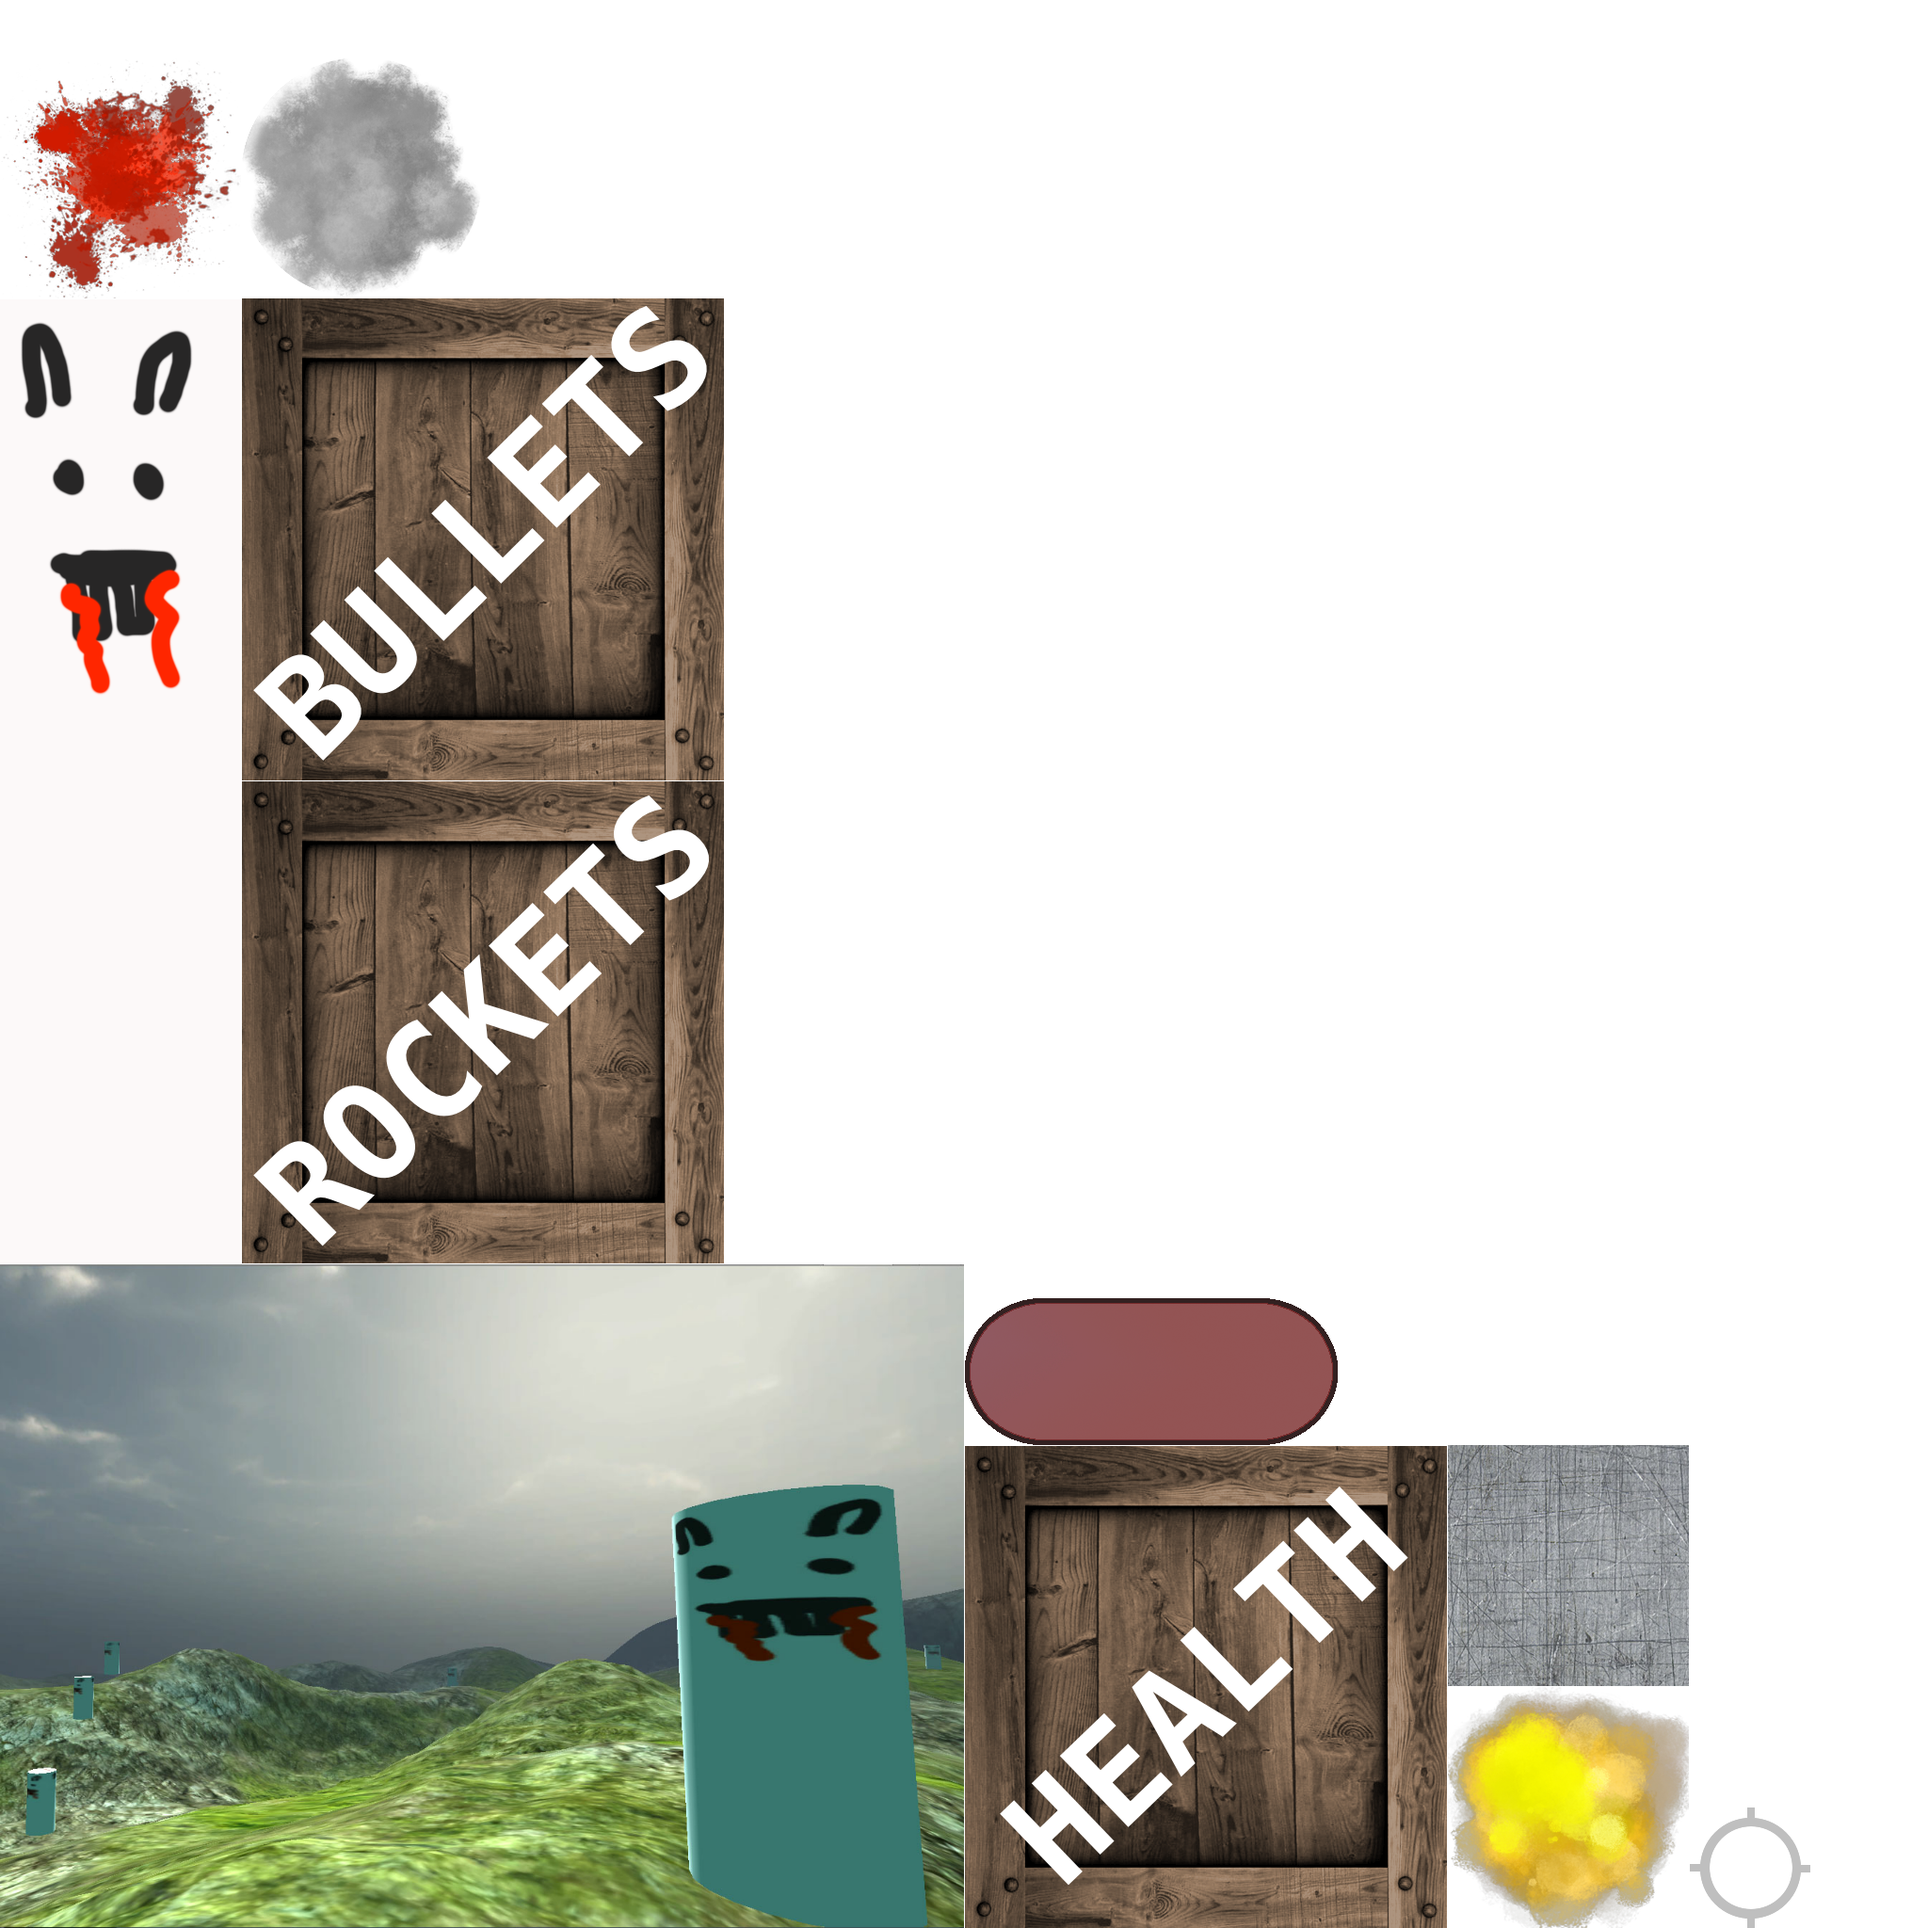
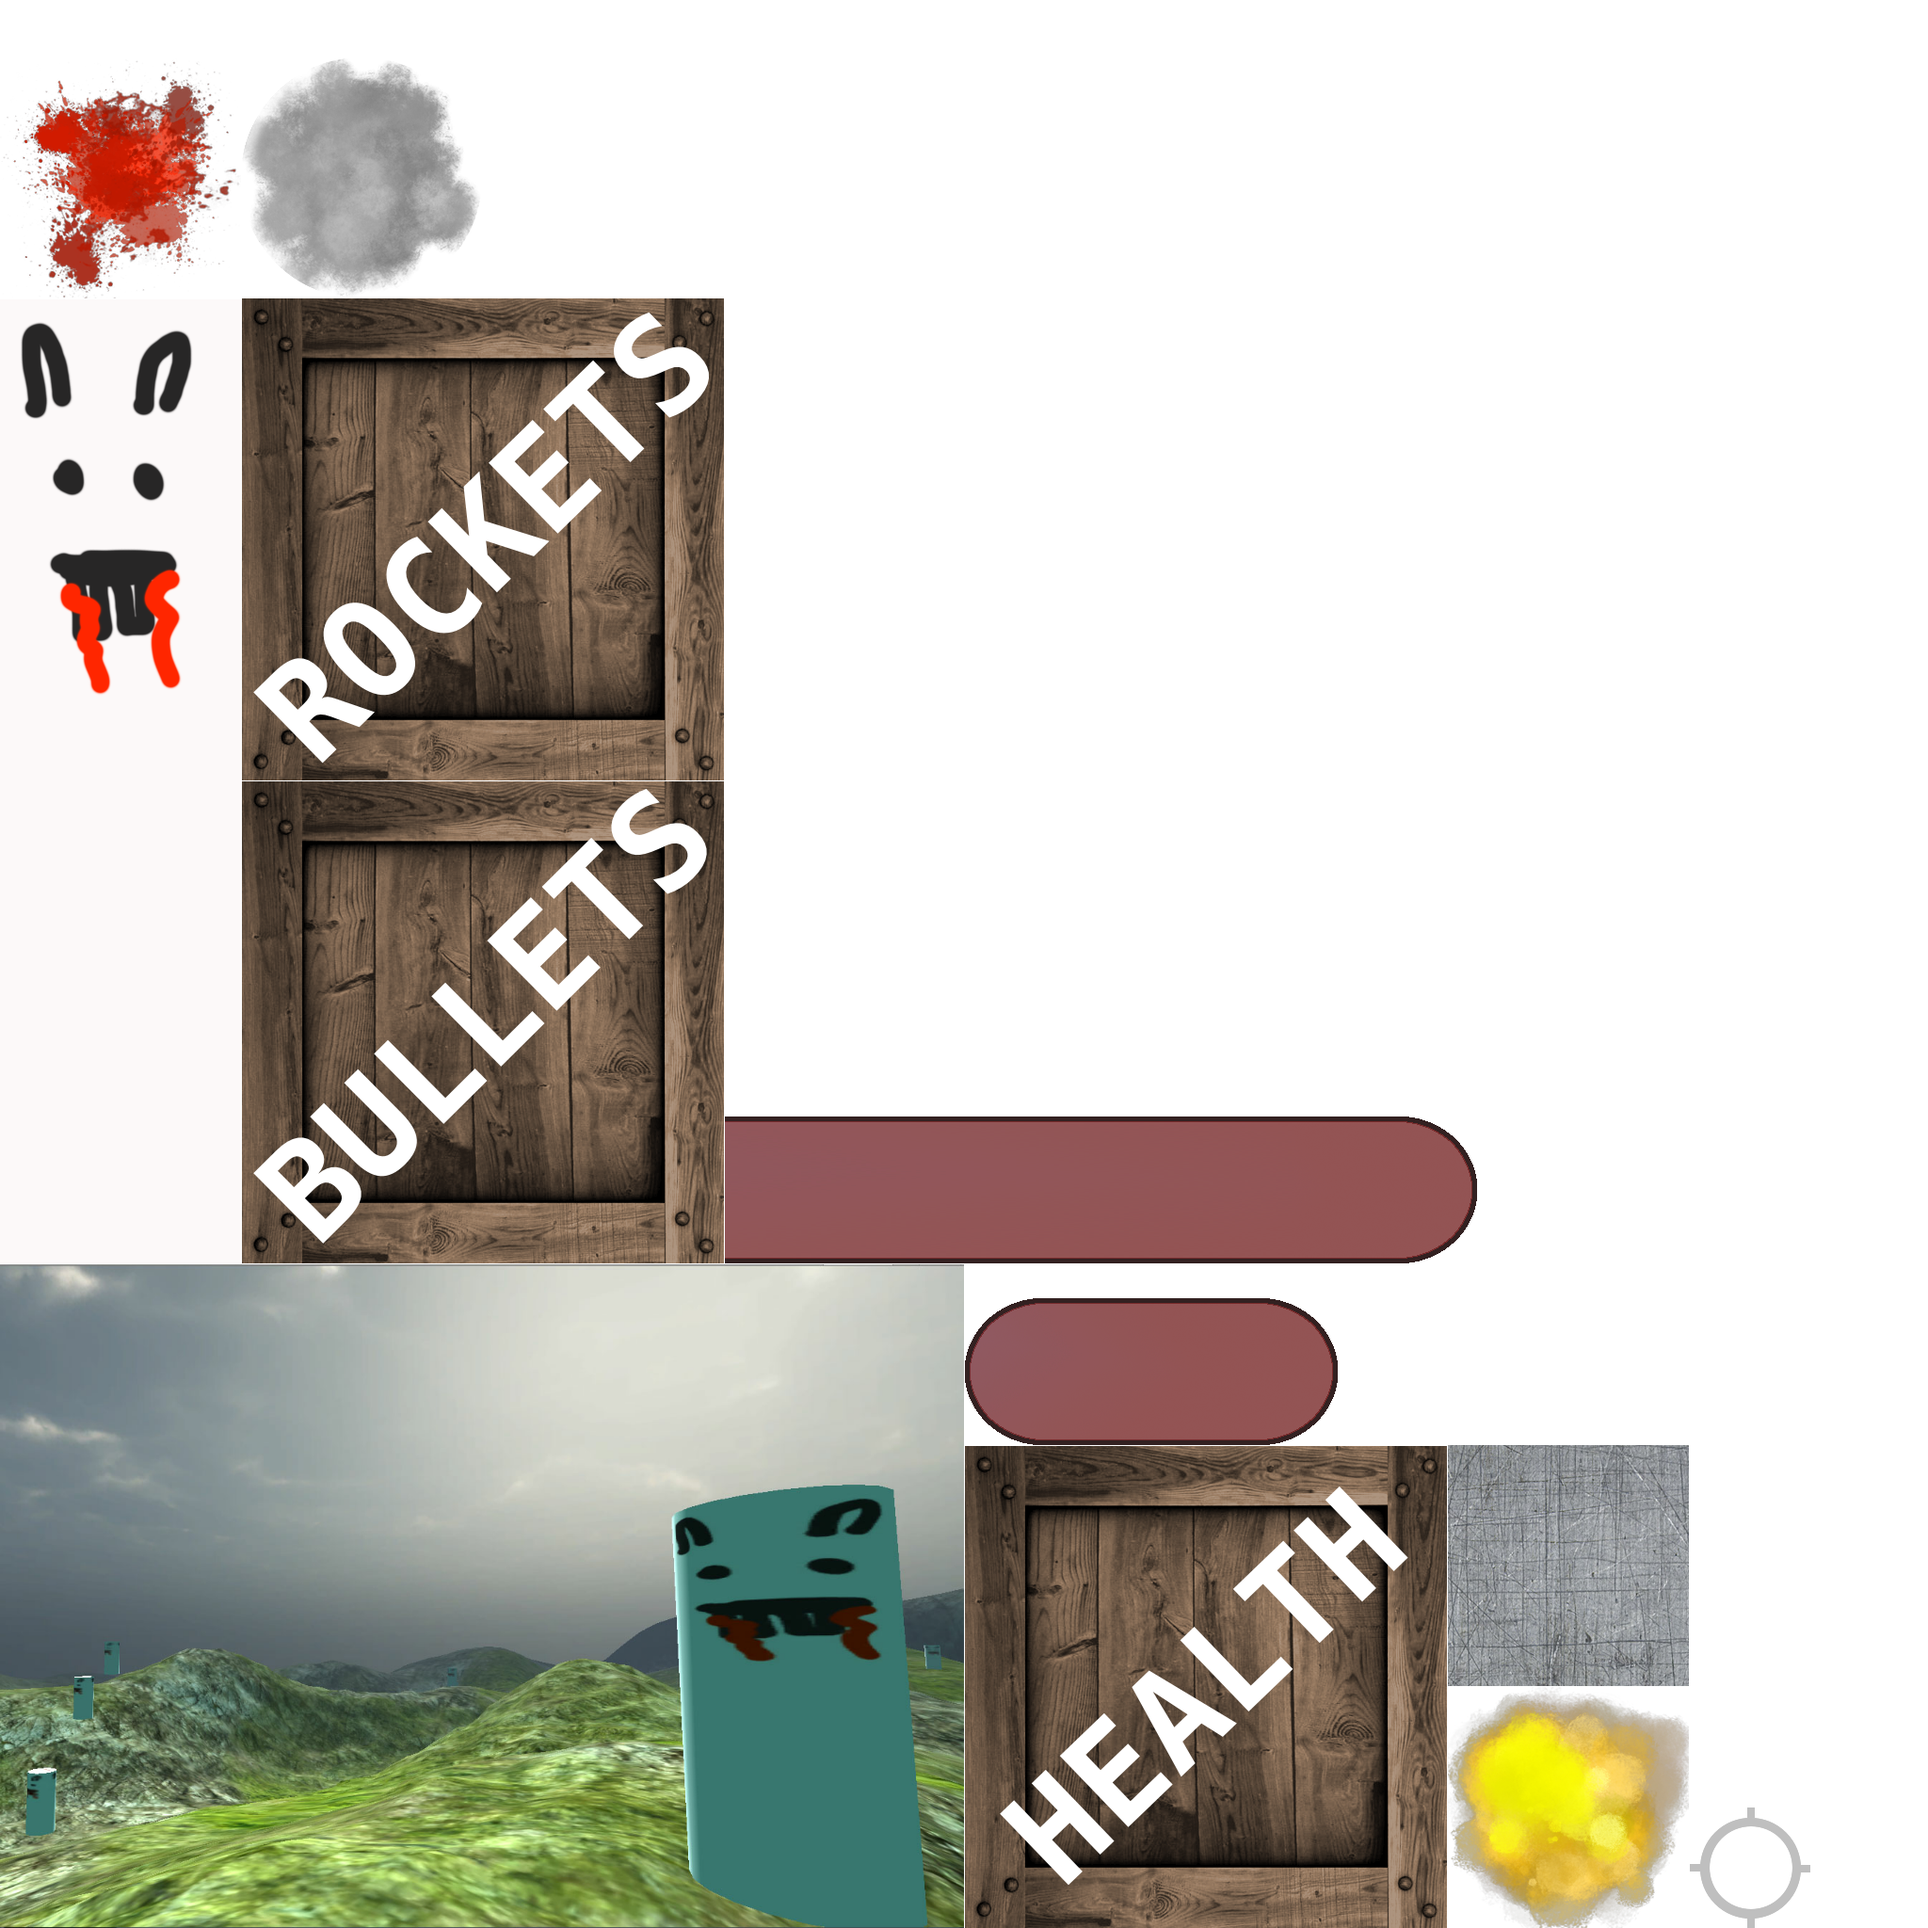
Sexy main menu with tweening

Changed region(s): [[0.375, 0.5625, 0.7812, 0.6562], [0.125, 0.4062, 0.375, 0.6562], [0.125, 0.1562, 0.375, 0.4062]]

diff --git a/Assets/Scripts/UI/StartScreenUI.cs b/Assets/Scripts/UI/StartScreenUI.cs
@@ -1,25 +1,53 @@
 using UnityEngine;
-using System.Collections;
+using System.Collections.Generic;
 
-public class StartScreenUI : MonoBehaviour {
-
-	[SerializeField] private GameObject _playButton;
+public class StartScreenUI : MonoBehaviour 
+{
+	[SerializeField] private UILabel _titleLabel;
+	[SerializeField] private List<GameObject> _menuButtons;
 
 	public delegate void EventDelegate();
 	public event EventDelegate PlayPressed; 
 
 	public void Init()
 	{
-		TweenInButtons();
+		_titleLabel.gameObject.SetActive(false);
+		foreach(GameObject menuButton in _menuButtons)
+		{
+			menuButton.SetActive(false);
+		}
+
+		Invoke("TweenInTitleLabel", 0.5f);
+		Invoke("TweenInButtons", 1.5f);
+	}
+
+	private void TweenInTitleLabel()
+	{
+		_titleLabel.gameObject.SetActive(true);
+
+		iTween.ScaleFrom(_titleLabel.gameObject, iTween.Hash(
+			"scale", new Vector3(60f, 60f, 1f),
+			"easetype", "easeOutElastic",
+			"time", .28f
+		));
 	}
 
 	private void TweenInButtons()
 	{
-		iTween.MoveFrom(_playButton, iTween.Hash(
-			"x", -2f,
-			"time", 0.8f,
-			"easetype", "easeOutBounce"
-		));
+		for(int i = 0; i < _menuButtons.Count; i++)
+		{
+			GameObject menuButton = _menuButtons[i];
+
+			menuButton.SetActive(true);
+			float tweenDelay = i*0.2f;
+
+			iTween.MoveFrom(menuButton, iTween.Hash(
+				"x", -3.5f,
+				"time", 0.8f,
+				"easetype", "easeOutBounce",
+				"delay", tweenDelay
+			));
+		}
 	}
 
 	private void OnPlayPressed()
